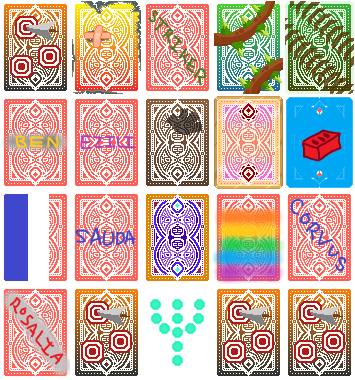
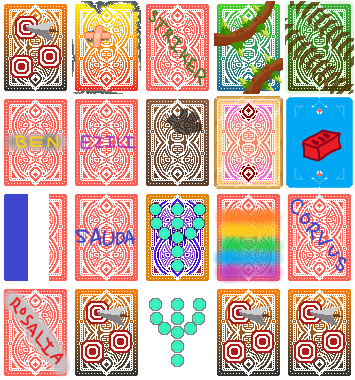
v0.2.0 cin change and art

Changed region(s): [[0.4028, 0.5211, 0.5887, 0.7237], [0.4028, 0.7816, 0.5887, 0.9553]]

diff --git a/README.md b/README.md
@@ -40,6 +40,7 @@ Balance Changes:
 - Downdraft blowback hands +2 -> +1
 - Long Life Spikes Mult loss -4 -> -5
 - Bomb Blitz shouldn't crash
+- Blooncineration now adds X1 Mult instead of retriggering X1.5 Mult for each destroyed card
 
 Fixes:
 - Triple Shot text no longer uses Spectral coloring
